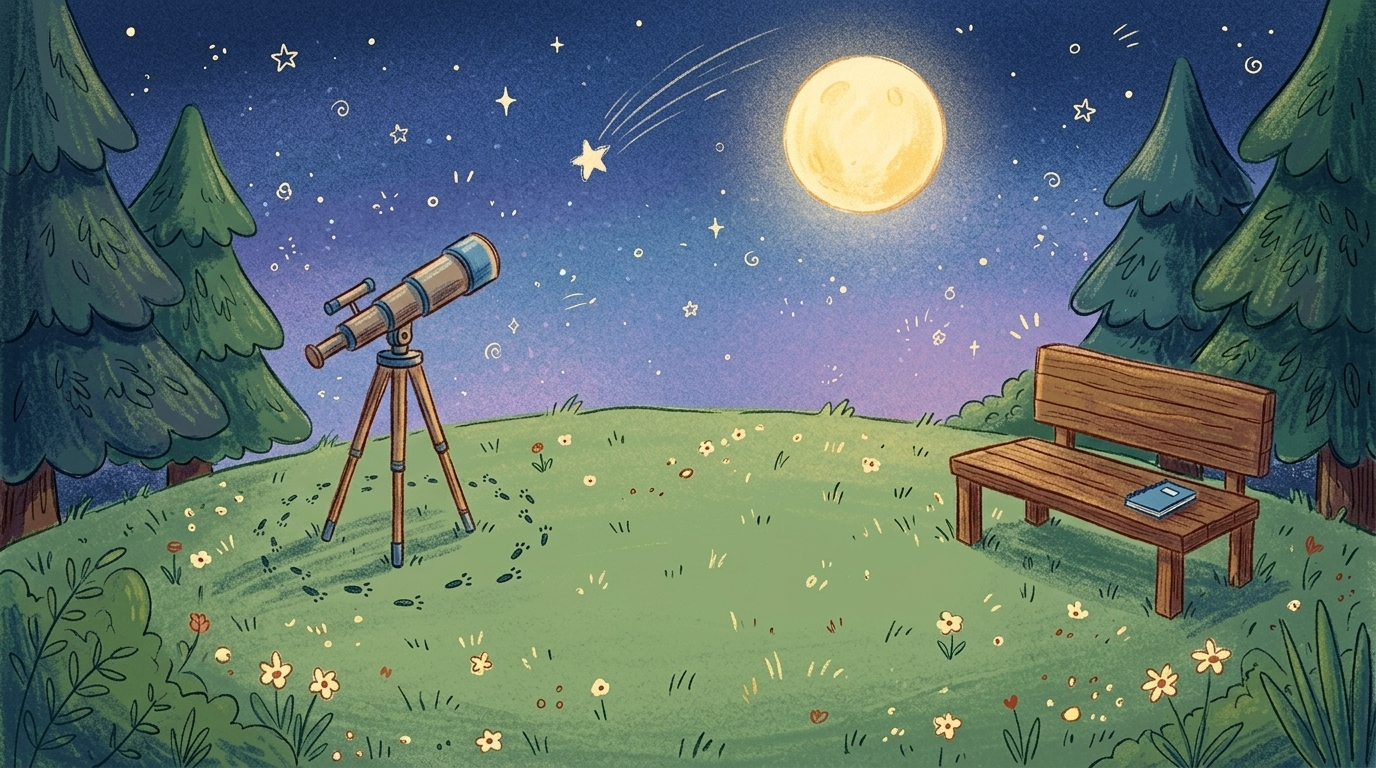
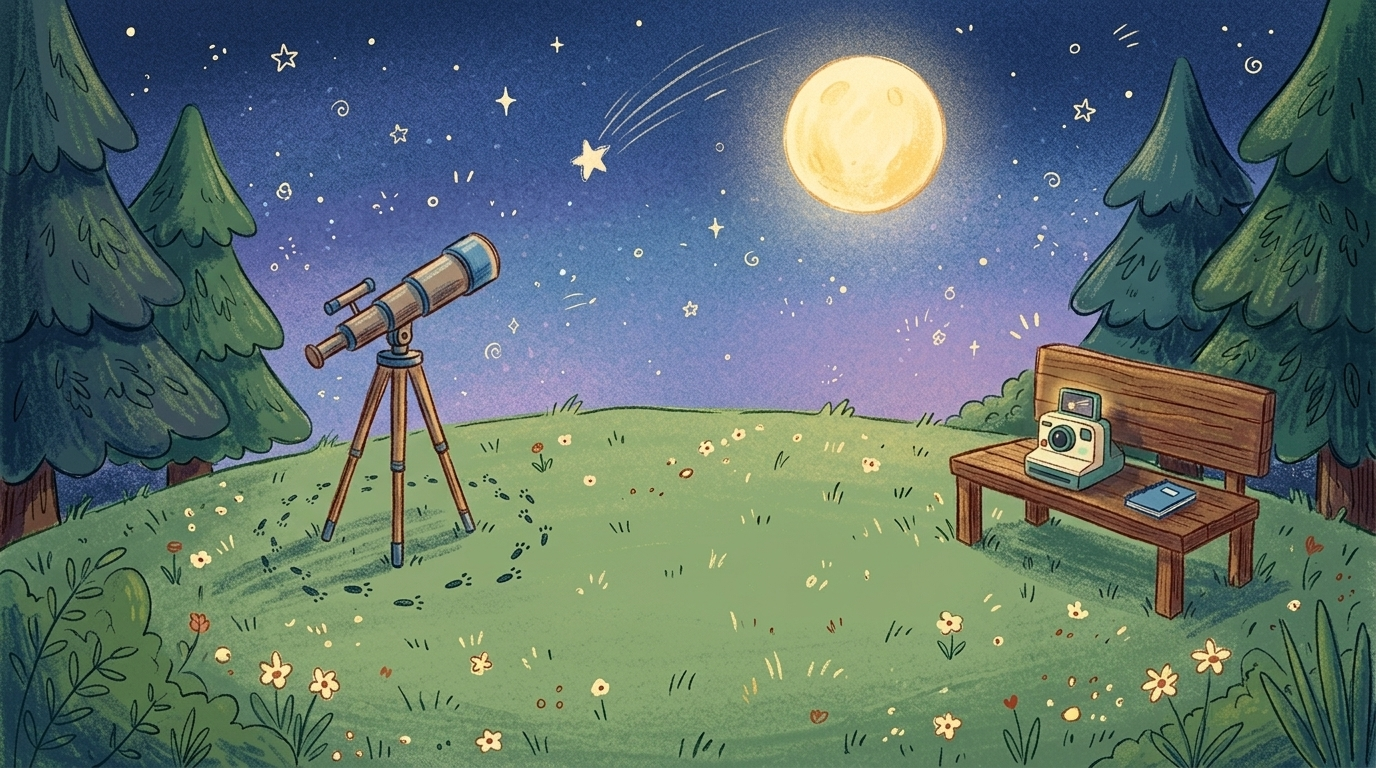
Wrong accusation as a scene (protest, ruled out by the orange fur, let go, pick again; user pick A) and an instant camera on Moon Hill with the shooting star's printed time (user pick D)

Changed region(s): [[0.7188, 0.4688, 0.8438, 0.6562]]

diff --git a/index.html b/index.html
@@ -117,6 +117,14 @@ button.chip:disabled{cursor:default;box-shadow:none}
 @media(prefers-reduced-motion:reduce){.app.interview-arriving .scene::after{animation:none;opacity:0;pointer-events:none}}
 /* a photo held up to the suspect */
 .presented{position:absolute;inset:0;z-index:7;display:grid;place-items:center;pointer-events:none}
+/* a wrong accusation: the person's board photo, crossed out while Badger confirms the alibi; then they leave */
+.clear-card{position:absolute;right:7%;top:38%;z-index:7;pointer-events:none}
+.clear-card .ded-sus{transform:scale(1.25) rotate(6deg);animation:clear-in .45s cubic-bezier(.3,1.5,.5,1) both}
+.clear-card .ded-sus::after{animation:clear-x .35s ease-out .35s both}
+@keyframes clear-in{from{opacity:0;transform:scale(.6) rotate(-6deg)}}
+@keyframes clear-x{from{opacity:0;transform:scale(1.6)}}
+.scene-npc.leaving{transition:opacity .6s ease-in,translate .6s ease-in;opacity:0;translate:18% 0}
+@media(prefers-reduced-motion:reduce){.clear-card .ded-sus,.clear-card .ded-sus::after{animation:none}.scene-npc.leaving{transition:none}}
 .presented figure{margin:0;width:64%;aspect-ratio:4/3;overflow:hidden;background:#FFFDF7;border:7px solid #FFFDF7;box-shadow:0 10px 24px rgba(40,30,24,.4);animation:present-in 1.3s ease forwards}
 .presented svg{display:block;width:100%;height:100%}
 @keyframes present-in{0%{opacity:0;transform:translateY(70px) rotate(-3deg) scale(.8)}22%{opacity:1;transform:translateY(0) rotate(-3deg) scale(1)}80%{opacity:1;transform:rotate(-3deg)}100%{opacity:0;transform:translateY(-12px) rotate(-3deg)}}
@@ -1799,14 +1807,17 @@ const PLACES = [
       { label:'Footprints', en:'Small rabbit footprints are all around the telescope.', ko:'망원경 주변에 작은 토끼 발자국이 가득하다.', audio:'audio/detective-hill-footprints.mp3' },
       { label:'Telescope', prop:true, en:'The telescope points up at the sky.', ko:'망원경이 하늘을 향해 있다.', audio:'audio/detective-hill-telescope.mp3' },
       { label:'Shooting star', prop:true, en:'A shooting star flies over the hill.', ko:'별똥별이 언덕 위로 지나간다.', audio:'audio/detective-hill-star.mp3' },
-      { label:'Flowers', prop:true, en:'Little white flowers in the grass.', ko:'풀밭에 작은 흰 꽃들이 피어 있다.', audio:'audio/detective-hill-flowers.mp3' }
+      { label:'Flowers', prop:true, en:'Little white flowers in the grass.', ko:'풀밭에 작은 흰 꽃들이 피어 있다.', audio:'audio/detective-hill-flowers.mp3' },
+      // a record with a time no one could write by hand (user pick D: the notebook alone was only the rabbit's own word)
+      { label:'Instant camera', en:'An instant camera on the bench. Its last photo is a shooting star, and the camera printed the time: 8:45 PM.', ko:'벤치 위 즉석카메라. 마지막 사진은 별똥별이고, 카메라가 찍힌 시각을 인쇄했다: 오후 8시 45분.' }
     ],
     spots:[
-      { clue:0, x:79.5, y:58, w:10, h:13, photo:{x:1080,y:440,w:160,h:120} },
+      { clue:0, x:81.5, y:59, w:8, h:11, photo:{x:1080,y:440,w:160,h:120} },
       { clue:1, x:19.6, y:60.5, w:21.8, h:19.5, photo:{x:280,y:435,w:280,h:210} },
       { clue:2, x:22, y:30, w:14.5, h:18, photo:{x:290,y:210,w:240,h:180} },
       { clue:3, x:41.5, y:3, w:15, h:21, photo:{x:540,y:40,w:240,h:180} },
-      { clue:4, x:18, y:84, w:7, h:8, photo:{x:220,y:620,w:160,h:120} }
+      { clue:4, x:18, y:84, w:7, h:8, photo:{x:220,y:620,w:160,h:120} },
+      { clue:5, x:74.2, y:49, w:7.2, h:15, photo:{x:982,y:362,w:200,h:150} }
     ]}
 ];
 // A dialogue-only setting: it has no map pin, unlock condition, hotspots or collectible evidence.
@@ -3464,8 +3475,22 @@ const ENDING = {
   ],
   closing:{ who:'badger', key:'closing', en:"Fiona told us everything. Good work, detective. Case closed.", ko:'피오나가 모두 털어놓았어요. 수고했어요, 탐정님. 사건 종결이에요.' }
 };
-// a wrong accusation: that person answers with the alibi they already gave
-const REBUTTAL = { mole:'m1', ray:'q2', rosie:'q2' };
+// A wrong accusation, told as a scene (user pick A): the person protests, Sgt. Badger rules them out by the evidence (the
+// orange fur on the library door, user pick: an alibi of their own word was weak; their photo is crossed out as on the board), they are let go and leave the room, and Badger asks again with the suspects left.
+const WRONG = {
+  ray:[
+    { who:'ray', key:'wrong1', en:"Me? I was on the cafe stage all night!", ko:'저요? 저는 밤새 카페 무대에 있었어요!' },
+    { who:'badger', key:'clear-ray', en:"Look at the fur on the library door. It's orange, but Ray's fur is grey.", ko:'도서관 문에 걸린 털을 보세요. 주황색인데, 레이의 털은 회색이에요.', cross:true },
+    { who:'ray', key:'wrong2', en:"Can I go now? I have a song to finish.", ko:'이제 가도 되죠? 마저 끝내야 할 노래가 있거든요.', leave:true }
+  ],
+  rosie:[
+    { who:'rosie', key:'wrong1', en:"Me? I was on Moon Hill with my telescope!", ko:'저요? 저는 망원경을 들고 달 언덕에 있었어요!' },
+    { who:'badger', key:'clear-rosie', en:"Look at the fur on the library door. It's orange, but Rosie's fur is white.", ko:'도서관 문에 걸린 털을 보세요. 주황색인데, 로지의 털은 하얀색이에요.', cross:true },
+    { who:'rosie', key:'wrong2', en:"Can I go back to the hill? The stars are still out.", ko:'언덕으로 돌아가도 될까요? 아직 별이 떠 있거든요.', leave:true }
+  ],
+  again:id => ({ who:'badger', key:`again-${id}`, en:`So it wasn't ${spk(id).name.split(' ')[0]}. Then who was it, detective?`, ko:`${spk(id).ko}는 아니었네요. 그럼 누구였을까요, 탐정님?` }),
+  bring:id => ({ who:'badger', key:`bring-${id}`, en:`${spk(id).name}? I'll bring ${id === 'ray' ? 'him' : 'her'} in.`, ko:`${spk(id).ko}요? 데려올게요.` })
+};
 const fionaLine = l => ({ who:'fiona', key:l.key, en:l.en ?? spk('fiona').answers[l.key], ko:l.ko ?? ANSWERS_KO.fiona[l.key] });
 // her face: composed for the first two claims, cornered once the bakery story falls apart, sorry when she confesses
 const confrontMood = round => round >= 2 ? 'nervous' : null;
@@ -3602,16 +3627,14 @@ function endingControls(){
   const e = ending;
   if(!e.line || e.step === 'stamp') return '';
   if(e.step === 'call') return e.i ? '<button class="pill big" type="button" data-end="interview">심문 시작</button>'
-    : `<div class="call-pick">${DEDUCE.suspects.map(([id, name]) => `<button class="pill" type="button" data-end="pick" data-who="${id}"><img src="assets/ui/icons-v2/${id}.png" alt="">${esc(name)}</button>`).join('')}</div>`;
+    : `<div class="call-pick">${DEDUCE.suspects.filter(([id]) => !e.cleared?.includes(id)).map(([id, name]) => `<button class="pill" type="button" data-end="pick" data-who="${id}"><img src="assets/ui/icons-v2/${id}.png" alt="">${esc(name)}</button>`).join('')}</div>`;
   const tools = '';   // 다시 듣기 and 해석 are in the speech bubble
   if(e.step === 'confront') return tools + `<button class="pill big green" type="button" data-end="present">증거 내밀기</button>`;
-  if(e.step === 'wrong') return tools + `<button class="pill big" type="button" data-end="leave">다시 조사하기</button>`;
   return tools + `<button class="pill big" type="button" data-end="next">다음</button>`;
 }
 function endingAction(action, who){
   const e = ending; if(!e) return;
   if(action === 'present'){ stopVoice(); openDrawer(); return; }
-  if(action === 'leave') return leaveEnding();
   if(action === 'next') endingNext();
   if(action === 'pick') callAnswer(who);
   if(action === 'interview') callGo();
@@ -3670,13 +3693,13 @@ function startCall(){
   endingSay(CALL.ask);
 }
 function callAnswer(id){
-  if(ending?.step !== 'call' || ending.i || !DEDUCE.suspects.some(([s]) => s === id)) return;
+  if(ending?.step !== 'call' || ending.i || ending.cleared?.includes(id) || !DEDUCE.suspects.some(([s]) => s === id)) return;
   clearTimeout(endTimer);
   ending.pick = id; ending.line = null; renderAsk();
   const name = detectiveName(), line = CALL.answer(id);
   renderSay({ ...line, name:name ? `Detective ${name}` : 'Detective' });
   // 심문 시작 takes the place of the names: a quick second tap on the same spot must not press it
-  const go = () => { if(ending?.step === 'call'){ ending.i = 1; ending.ready = performance.now() + 600; endingSay(CALL.go(id)); } };
+  const go = () => { if(ending?.step === 'call'){ ending.i = 1; ending.ready = performance.now() + 600; endingSay(ending.cleared ? WRONG.bring(id) : CALL.go(id)); } };
   detectiveSay(line.key, () => { endTimer = setTimeout(go, 500); });
 }
 function callGo(){
@@ -3690,9 +3713,20 @@ function startEnding(){
   endingSay(fionaLine(ENDING.confront[0]), null);
 }
 function wrongAccusation(id){
+  const cleared = ending?.cleared || [];
   enterInterview(id, 'wrong');
-  const key = REBUTTAL[id] || 'q2';
-  endingSay({ who:id, key, en:spk(id).answers[key], ko:ANSWERS_KO[id]?.[key] || '' });
+  Object.assign(ending, { who:id, i:0, cleared });
+  wrongLine(WRONG[id][0]);
+}
+// one line of the scene; with Badger's check the person's photo comes up crossed out, as on the deduction board
+function wrongLine(line){
+  $('.scene .clear-card')?.remove();
+  endingSay(line);
+  if(!line.cross) return;
+  const card = document.createElement('div');
+  card.className = 'clear-card';
+  card.innerHTML = `<span class="ded-sus out"><span class="ded-pol"><i style="background-image:url(assets/ui/icons-v2/${ending.who}.png)"></i>${esc(spk(ending.who).name.split(' ')[0])}</span></span>`;
+  $('.scene').appendChild(card);
 }
 function requestLeaveInterrogation(){
   if(ending?.step !== 'confront' || !ending.line || $('.presented')) return;
@@ -3777,6 +3811,23 @@ function present(ref){
 function endingNext(){
   const e = ending;
   clearTimeout(endTimer); stopVoice();
+  if(e.step === 'wrong'){
+    const lines = WRONG[e.who];
+    if(lines[e.i].leave){
+      // let go: they slip out of the room, then Badger turns to the detective with the suspects left
+      $('.scene .clear-card')?.remove();
+      $(`#talkCamera .scene-npc[data-talk="${e.who}"]`)?.classList.add('leaving');
+      renderSay(null); e.line = null; renderAsk();
+      e.cleared.push(e.who);
+      endTimer = setTimeout(() => {
+        delete S.visit[e.who];
+        Object.assign(e, { step:'call', i:0, pick:null });
+        endingSay(WRONG.again(e.who));
+      }, 700);
+      return;
+    }
+    return wrongLine(lines[++e.i]);
+  }
   if(e.step === 'confession'){
     if(++e.i < ENDING.confession.length) return endingSay(fionaLine(ENDING.confession[e.i]));
     e.step = 'closing'; return endingSay(ENDING.closing);

diff --git a/HANDOFF.md b/HANDOFF.md
@@ -223,6 +223,7 @@ node server.js            # http://localhost:5173/
   - 장소마다 알려진 인물이 전신으로 서 있다: 도서관 오소리·두더지, 빵집 피오나, 카페 레이·오리 아저씨, 언덕 로지.
   - 도서관의 오소리 경사는 x 50, 두더지 부인은 x 66이다. 책상 위 펼친 책(물건)을 가리지 않도록 책상 오른쪽에 선다.
   - 레이는 카페 의자와 겹치지 않게 x 60, 발 92에 둔다. 오리 아저씨는 카운터 앞 x 38, 발 93이다.
+- **언덕 단서**는 별 동호회 노트·토끼 발자국·**즉석카메라**(사용자 선택 D: 로지 본인 기록만으로는 약해서, 기계가 찍은 시각이 남는 증거. 벤치 위, "마지막 사진은 별똥별, 카메라가 인쇄한 시각 8:45 PM", `hill-5`). 누구 것인지는 말하지 않는다. 나레이션 음성은 아직 없다.
 - **카페 단서는 포스터 하나다**(나머지 누를 곳은 물건이다). 오리 아저씨의 진술은 촬영하지 않고 대화로 듣는다(3.8절).
   - NPC를 누르면 대화로 들어간다.
 
@@ -249,13 +250,13 @@ node server.js            # http://localhost:5173/
   - 음성: 탐정 목소리(Higgsfield MiniMax Grady, 사용자 요청) `audio/deduce/<키>.mp3` 31줄 — q1–q10 질문, r1–r10 맞장구, h1–h10 힌트, miss(`DEDUCE_RECORDED`). 키가 빠지면 그 줄만 브라우저 음성. 녹음 대본은 시각을 말로(eight forty), "Sgt."는 "Sergeant"로 썼다(화면 글은 그대로).
   - 진행은 `S.deduce`(`done` 답한 질문, `misses`, `tried`, `at`)로 저장되고, 닫았다 열면 이어서 묻는다. 예전 쪽 방식 저장은 처음부터.
   - 아래 메뉴는 그대로라 `Note`로 노트를 보며 추리한다. 노트는 다른 화면과 똑같은 노트(전체 높이, 같은 디자인)로 열린다(사용자 요청).
-  - 마지막 질문까지 답하면 `심문 시작`이 뜨고, 누르면 **오소리 경사 장면**(사용자 요청: 범인 지목 전 자연스러운 장면 전환, `startCall()`·`CALL`)으로 간다: 엔딩 모드로 오소리 경사가 제자리(도서관)에서 "Detective! Did you find out who did it?"(음성) → 아래에 용의자 셋(레이·로지·피오나) 얼굴 버튼, **플레이어가 직접 고른다**(사용자 요청) → 탐정 말풍선(`Detective <이름>`) "Yes. It was <이름>."(탐정 음성 `audio/detective-call-<id>.mp3`) → 오소리 "<이름>? Then let's bring him/her to the station."(`badger-call2-<id>.mp3`) → `심문 시작`(나타난 뒤 0.6초 동안은 눌리지 않음: 같은 자리 두 번 탭 방지) → 피오나면 대질(`startEnding()`), 다른 사람이면 그 사람이 알리바이로 반박하고 `다시 조사하기`(`wrongAccusation()`). 이 장면에서 뒤로가기는 그냥 지도로(잃는 것 없음). 예전의 범인 선택 창(`#accuse`)·지목 알림(`#accused`)은 코드에 남아 있지만 열리는 길이 없다. 하단 메뉴에는 넣지 않는다(사용자 결정). 대화가 남아 있으면 버튼 자체를 숨긴다. `allConversationsDone()`으로 화면 표시와 지목 처리 모두 검사하며, 증거 수집 완료는 조건이 아니다.
+  - 마지막 질문까지 답하면 `심문 시작`이 뜨고, 누르면 **오소리 경사 장면**(사용자 요청: 범인 지목 전 자연스러운 장면 전환, `startCall()`·`CALL`)으로 간다: 엔딩 모드로 오소리 경사가 제자리(도서관)에서 "Detective! Did you find out who did it?"(음성) → 아래에 용의자 셋(레이·로지·피오나) 얼굴 버튼, **플레이어가 직접 고른다**(사용자 요청) → 탐정 말풍선(`Detective <이름>`) "Yes. It was <이름>."(탐정 음성 `audio/detective-call-<id>.mp3`) → 오소리 "<이름>? Then let's bring him/her to the station."(`badger-call2-<id>.mp3`) → `심문 시작`(나타난 뒤 0.6초 동안은 눌리지 않음: 같은 자리 두 번 탭 방지) → 피오나면 대질(`startEnding()`), 다른 사람이면 오답 지목 장면(아래 **오답 지목**, `wrongAccusation()`). 이 장면에서 뒤로가기는 그냥 지도로(잃는 것 없음). 예전의 범인 선택 창(`#accuse`)·지목 알림(`#accused`)은 코드에 남아 있지만 열리는 길이 없다. 하단 메뉴에는 넣지 않는다(사용자 결정). 대화가 남아 있으면 버튼 자체를 숨긴다. `allConversationsDone()`으로 화면 표시와 지목 처리 모두 검사하며, 증거 수집 완료는 조건이 아니다.
 - 알게 된 인물 중에서 고른다(동료·참고인 제외).
 - 범인 선택 창(`#accuse`)은 맨 위 머리줄에 `범인은 누구일까요?`와 닫기 버튼을 나란히 둔다. 영문 보조 제목은 없다. 오른쪽 위 공용 손그림 ×(`.accuse-head`, `.close-button`, 접근성 이름 `범인 지목 닫기`)로 닫는다(사용자 요청). ×와 창 바깥 터치는 기존 화면으로 돌아간다.
 - 고르면 먼저 지목 알림 창(`#accused`, `showAccused()`)이 뜬다(사용자 요청): 얼굴 + "Fiona Fox를 범인으로 지목했어요."(조사는 `ACCUSE_JOSA`, 영어 이름 끝소리 기준), `심문 시작` / `다시 고를래요`. 맞든 틀리든 같은 창이라 정답을 드러내지 않는다. `심문 시작`을 눌러야 대질(정답) 또는 반박(오답)이 시작된다.
 - **엔딩 모드**(`ending`, `.app.ending`): 대화 장면과 카메라를 그대로 쓰고, 질문 버튼 자리(`renderAsk` → `endingControls()`)에 엔딩 버튼을 둔다. 상단 칩은 숨기고, 아래 지도/Note 줄은 `display:none`으로 없애 장면이 화면 아래 끝까지 채운다(빈 띠가 생기지 않게). 진상은 대사로 알려 주고, 해결 뒤 복습 페이지에서만 짧은 사건 요약을 보여 준다. 데이터는 `ENDING`.
   - **공통 조사실 이동**(사용자 요청): 누구를 지목하든 `심문 시작`을 누르면 `enterInterview(id, step)`가 같은 파출소 조사실과 0.75초 암전 전환을 적용한다. 배경은 `places/station-interview-room.png`(인물·문자 없는 따뜻한 목재 방). `INTERVIEW_ROOM`은 지도·해금·증거가 없는 대화 전용 장소로 `PLACES` 밖에 두고 `placeOf()`에서만 찾는다. 논리 좌표는 1536×1536이며 바닥이 그림에 포함돼 별도 바닥 확장은 없다. `S.visit`로 오소리 x25·지목한 인물 x64, 발82·키44에 임시 배치하고 원래 장소 데이터는 유지한다. 조명(`.app.in-interview .spotlight`)도 정답·오답 모두 동일하다. 동작 줄이기 설정에서는 암전을 생략한다.
-  - 카메라는 **말하는 사람 한 명**에게 맞춘다: 대질·자백은 피오나, 마무리는 오소리 경사. 조사실 구도는 전신 높이 약 52%·머리 위치 약 35%로, 캐릭터 좌표를 바꾸지 않고 말풍선 아래 얼굴을 보여 준다. 사람이 바뀌면 같은 방에서 카메라만 옮긴다(`endingSay` → `focusCamera(null, true)`). 심문의 상단 뒤로가기에서 나가기를 확정하거나 오답 지목의 `다시 조사하기`를 누르면 지목한 인물의 원래 현장과 지도로 돌아간다. 복습 페이지로 넘어갈 때 임시 배치를 해제하고 도서관 대화와 지도 인물 위치도 갱신한다(`leaveInterview()`). 심문 중 새로고침하면 임시 배치를 복원하지 않고 원래 장소에서 재개한다.
+  - 카메라는 **말하는 사람 한 명**에게 맞춘다: 대질·자백은 피오나, 마무리는 오소리 경사. 조사실 구도는 전신 높이 약 52%·머리 위치 약 35%로, 캐릭터 좌표를 바꾸지 않고 말풍선 아래 얼굴을 보여 준다. 사람이 바뀌면 같은 방에서 카메라만 옮긴다(`endingSay` → `focusCamera(null, true)`). 심문의 상단 뒤로가기에서 나가기를 확정하면 지목한 인물의 원래 현장과 지도로 돌아간다. 복습 페이지로 넘어갈 때 임시 배치를 해제하고 도서관 대화와 지도 인물 위치도 갱신한다(`leaveInterview()`). 심문 중 새로고침하면 임시 배치를 복원하지 않고 원래 장소에서 재개한다.
   1. **대질(조사실, 피오나)**: 주장 4개를 차례로 말한다(1·2는 기존 `fiona-q1/q2.mp3`). 아래 버튼은 `증거 내밀기` 하나다. 상단 왼쪽의 공용 종이 뒤로 버튼(`#backTab`, 접근성 이름 `심문 나가기`)으로 나가기를 요청한다. 게이지는 버튼 오른쪽에 겹치지 않게 배치한다(`.app.questioning`).
      - **심문 무대**(사용자 요청): 조사실의 따뜻한 조명과 주변 그늘을 유지한다. 상단 **심문 진행 게이지**(`#interrogationGauge`, `renderInterrogationGauge()`)는 같은 화면의 종이 버튼과 맞춘 크림 종이·2px 갈색 외곽선·비대칭 둥근 모서리다. `buttons/cream-flat.png`의 가운데 종이 질감을 재사용하고, 안쪽 왼쪽에 내장 image_gen으로 제작한 무광 크림/갈색 연필 돋보기 `ui/magnifier-paper.png`(1254×1254, 표시 상자 34px)를 둔다. 높이는 뒤로 버튼과 같은 36px, 심문 중 왼쪽 74px·오른쪽 14px로 뒤로 버튼과 16px 간격이다. 안쪽 채널(`.gauge-meter`, 높이 16px)은 진행률(`endingRound / ENDING.confront.length`)만큼 꿀색 종이 질감(`buttons/honey-flat.png`)이 차오른다. `.gauge-fill`만 clip-path로 가려 아이콘과 외곽선은 변형되지 않는다. 무거운 바깥 그림자·숫자·칸 구분은 없다. 맞히면 1.025배로 살짝 커지고, 오답이면 비워지며 흔들린다. 자백 중에는 가운데 280px 폭으로 가득 찬 상태를 유지하고 마무리부터 숨긴다. progressbar 역할과 현재 진행률을 제공하며, 동작 줄이기 설정에서는 채움 전환·반응 애니메이션을 끈다.
      - **대사 말풍선**(사용자 요청): 엔딩의 모든 대사(대질 주장, 틀린 사진에 대한 대꾸, 자백, 마무리, 오답 지목의 반박)가 말하는 사람 이름과 영어 원문으로 말풍선에 뜬다(`#sayBubble`, `renderSay()`). 심문 중에는 게이지 아래, 꼬리는 아래 인물 쪽. 증거 서랍을 열어도 남아 있어 주장을 보며 증거를 고른다. 사진을 내밀 때·자백 전 침묵·도장 때는 숨긴다.
@@ -271,7 +272,7 @@ node server.js            # http://localhost:5173/
   2. **자백**: 잠깐 침묵 뒤 3줄. 아래 버튼은 `다음`(듣기·해석은 말풍선 안).
   3. **마무리**: 같은 조사실에서 오소리 경사 1줄 → `다음` → `COMPLETE` 이미지 도장 카드(`.case-closed`, 탐정 이름 줄 포함). 도장 뒤 탐정이 올라와 마지막 대사(`closed`)를 하고, 끝나면 0.7초 뒤 카드가 사라진다(음성이 안 나오면 바로, 최대 8초). 투명 PNG(`ui/complete-stamp.png`, Higgsfield, 사용자 요청으로 영문)를 사건명 아래에 표시하고 CSS로 -10도 회전·찍히는 애니메이션을 준다. 이미지는 미리 불러오며 대체 텍스트도 `COMPLETE`. 동작 줄이기에서는 도장 애니메이션 없이 표시한다. 후일담 장면은 넣지 않는다(사용자 결정).
   4. 도장 카드가 사라지면 해결 기록 저장(`markSolved`) 후 결과창 없이 **바로 복습 페이지**(사용자 결정: 꼭 보는 페이지).
-- **오답 지목**: 같은 조사실에서 그 인물이 이미 한 알리바이를 음성·말풍선으로 다시 말한다(`REBUTTAL`: 두더지 m1, 레이 q2, 로지 q2). 아래 버튼은 `다시 조사하기`(그 인물의 원래 장소 현장 + 지도).
+- **오답 지목**(사용자 선택 A: "이래서 범인이 아니다"로 이어지는 장면, `WRONG`, `wrongLine()`): 같은 조사실에서 ① 지목된 인물이 놀라 항변 → ② 오소리 경사가 **도서관 문의 주황색 털**로 배제(사용자 결정: 본인 알리바이만으로는 약함. 레이는 회색, 로지는 하얀 털), 이때 오른쪽에 추리 보드와 같은 그 인물 사진이 빨간 X로 뜸(`.clear-card`) → ③ 풀려나며 한마디 → `다음`에 그 인물이 옆으로 빠지며 사라짐(`.scene-npc.leaving`, `S.visit`에서 지움) → ④ 오소리 경사 "So it wasn't ○○. Then who was it, detective?" + 남은 용의자 얼굴(`ending.cleared`는 빠짐). 고르면 탐정 "Yes. It was ○○." → 오소리 "○○? I'll bring him/her in."(`WRONG.bring`) → `심문 시작` → 피오나면 대질, 아니면 같은 장면. 버튼은 `다음`뿐이고 상단 `<`는 없다(오소리 지목 장면과 같음). `다시 조사하기`는 없다. 새 대사 11줄(레이·로지 각 3, 오소리 `again-ray/rosie`·`bring-ray/rosie/fiona`)은 **아직 녹음이 없어 브라우저 음성**으로 나온다. 풀려난 기록은 그 장면 안에서만 유지한다(저장 안 함).
 - **복습 페이지**(`openReview(fromHome)`, `renderReview()`, 상태 `rv`; 사용자 결정): 전체 화면 종이 페이지를 최대 4단계로 넘긴다(첫 확인에서 틀린 질문이 없으면 2단계 생략). 위 머리줄·진행 막대 없이, 아래 큰 버튼 바로 위에 단계 점(`.rv-dots`, 이번 사건의 열쇠와 같은 모양, 단계 수만큼). 버튼 글은 넘김은 `다음`, 채점은 `확인`, 마지막은 `완료`(사용자 결정). 좌우 여백 24px(사용자 요청, 이번 사건의 열쇠는 16px), 위 20px. 화면 안 설명 문장은 없다. 사건 대화 전체 다시 보기는 넣지 않는다(사용자 결정).
   1. **사건 결과**: 압정으로 꽂은 서류(`casekey/card.webp`) 안에 **사건 사진**(`reviewPhoto()`, `CASES[].photo`, 사용자 결정: 범인이면 머그샷, 물건이면 그 물건). Case 01은 `{ who:'fiona', img:'assets/characters/fiona-sad.png', cx:41.7 }` → 키 눈금 벽 + 그림(몸이 그림 폭의 `cx`%에 있어 그 점을 가운데로, 머리가 잘리지 않게 폭 72%) + 번호판 `FIONA FOX / ACORN HOLLOW · 01`. 물건이면 `{ place, clue }` → `evidencePhoto()`로 현장 그림에서 잘라 냄. `COMPLETE` 도장은 사진 오른쪽 위 모서리에 겹쳐 찍힘(사용자 결정). 그 아래 사건 번호·제목, 손그림 별 3개(하나씩 찍힘, 아래 여백 `margin-bottom:10px`로 요약과 24px, 사용자 요청), **사건 요약**(`CASES[].summary`, 사용자 결정: 시안 A의 줄 친 메모지 `.rv-story`, 피해자·범인·자백 내용만 아주 짧게, 한국어), 세 줄을 아래로(사용자 요청, 줄마다 왼쪽 이름·오른쪽 숫자, 이름은 늘 같고 값만 바뀜) `처음에 맞힌 빈칸 맞힌 칸 / 전체 칸` · `다시 들을 문장 n`(있으면 꿀색) 또는 `없음` · `사건에 나온 단어 n`.
   2. **다시 들을 문장**(처음 확인 때 틀린 질문이 있을 때만): 제목 `다시 들을 문장 n / 전체`, 질문 영어 한 줄, 흰 카드(오른쪽 위 ▶ 대답 듣기·`천천히`, 그 아래 슬롯이 있는 노트 줄만). 누가 말했는지·처음 쓴 답은 보여 주지 않는다(사용자 결정). 노트 문장에서 처음 틀린 칸만 빈 슬롯이고 같은 줄의 나머지 칸은 초록 정답. 단어 카드(`bank`)를 누르면 앞 슬롯부터 채워지고, 채운 슬롯을 누르면 비운다. `확인`: 틀린 슬롯은 흔들리며 비워지고(정답은 보여 주지 않음), 다 맞으면 효과음과 함께 슬롯이 초록이 되고 단어 카드가 사라지며 버튼이 `다음`(`data-rv-card`, 사용자 결정: 자동으로 넘기지 않음, `rv.solved`). 처음 틀린 입력이 없는 저장본은 그 질문의 모든 칸을 슬롯으로 낸다.
@@ -436,7 +437,7 @@ node server.js            # http://localhost:5173/
 | 도서관 | `places/library-higgsfield-v2.png` | 사용자 제작, 1376×768 |
 | 피해자 분필 윤곽선 | `places/library-chalk-owl.png` | Claude 제작(Nano Banana 2.1, job 418fefc0), 640×450 투명 PNG. 검은 배경 위 흰 분필 선을 밝기로 투명도를 만들고 선을 조금 굵혔다. 원본 `library-chalk-owl-original.png` |
 | 빵집 | `places/bakery-higgsfield.png` | 사용자 제작, 1376×768 |
-| 카페·언덕 | `places/cafe-higgsfield.png`, `places/hill-higgsfield.png` | Claude 제작, 1376×768. 카페는 카운터 뒤 오리를 지운 판 |
+| 카페·언덕 | `places/cafe-higgsfield.png`, `places/hill-higgsfield.png` | Claude 제작, 1376×768. 카페는 카운터 뒤 오리를 지운 판, 언덕은 벤치에 즉석카메라를 더한 판 |
 | 바닥 확장 | `places/<id>-floor.jpg` | outpaint로 원본 아래를 이어 그림(높이 370–725). 원본 `*-outpaint-original.png` |
 | 튜토리얼 그림 | `ui/tutorial/tut-1…6.webp` | Claude 제작, 실제 게임 화면을 잘라 합성(사용자 결정), 900×720. 만드는 법·자르는 기준은 같은 폴더 README |
 | 마을 지도 | `places/village-map-higgsfield.png` | Claude 제작, 768×1376, 글자 없음 |
@@ -521,7 +522,7 @@ node server.js            # http://localhost:5173/
 
 ## 10. 다음 할 일 (미구현 후보, 별도 요청 후 진행)
 
-0. **오답 지목 장면 다시 짜기**(기획안 `design/wrong-accusation.md`, 사용자 결정 대기): `다시 조사하기` 대신 항변 → 오소리 경사가 알리바이 확인 → 풀려남 → 그 자리에서 다시 지목(A안, 추천) 또는 증거로 알리바이를 직접 확인(B안).
+0. **오답 지목 장면 음성**(3.7절): 새 대사 11줄 녹음(레이·로지·오소리 목소리, 크레딧 먼저 알림)과 언덕 즉석카메라 나레이션(탐정 Grady). 로지를 추리 보드에서 지우는 근거에 즉석카메라를 쓸지도 사용자와 정한다.
 0. **추리 보드 다듬기**(게임 적용됨, 3.7절): 남아 있는 옛 지목 창(`#accuse`·`#accused`) 코드 정리.
 1. **사건 도중 증거를 인물에게 내밀기**(지금은 엔딩 대질에만 있다): 게임이 증거와 인물을 자동으로 잇지 않는다. 플레이어가 고른 인물에게 증거를 보여 주면 반응한다(예: 주황색 털을 피오나에게). 누구에게 보여 줄지가 추리다.
 2. **모순 지목**: 범인만 고르는 대신 노트 문장 + 증거를 짝지어 제시한다. 틀리면 동료가 대화로 힌트를 준다. 틀린 노트 문장이면 동료가 "정말 그렇게 말했어요?"라고 되묻는다.

diff --git a/assets/places/README.md b/assets/places/README.md
@@ -26,6 +26,7 @@ Use case: illustration-story. Create ONE empty background illustration for the w
 - `bakery-higgsfield.png`: 사용자 제작, Higgsfield / Nano Banana.
 - `cafe-higgsfield.png`, `hill-higgsfield.png`: Claude Code 제작, Nano Banana 2.1 · 16:9 · 1K · thinking high. 빵집 그림을 스타일 참고 이미지로 사용했다.
 - 출처와 적용 좌표는 2026-10-15 `CLAUDE_REQUEST.md`의 인계 내용에 따른다.
+- 2026-10-27 언덕 벤치에 즉석카메라 추가(사용자 결정, 증거 `hill-5`): 지금 그림을 참조로 Nano Banana 2.1(16:9, 1K, thinking high, 1장 약 1.5크레딧)로 카메라만 그려 넣게 한 판(job `21f906f2-cb54-48ee-985d-ccaec6058da5`, `hill-camera-higgsfield-original.png`)에서 카메라 부분(x 1016–1150, y 370–502, 가장자리 4px 흐림)만 원래 그림에 옮겨 붙였다. 나머지 화면·바닥 확장은 그대로다.
 - 원본은 그대로 보관하고 빵집 안내판의 `CLOSED / at 7 PM`, 카페 포스터의 공연 정보는 앱의 SVG 레이어로 표시한다.
 - 새 그림에 맞춘 핫스팟은 비율 좌표, 증거 촬영 영역은 원본 픽셀 좌표(4:3)로 `PLACES`에 지정한다.
 
